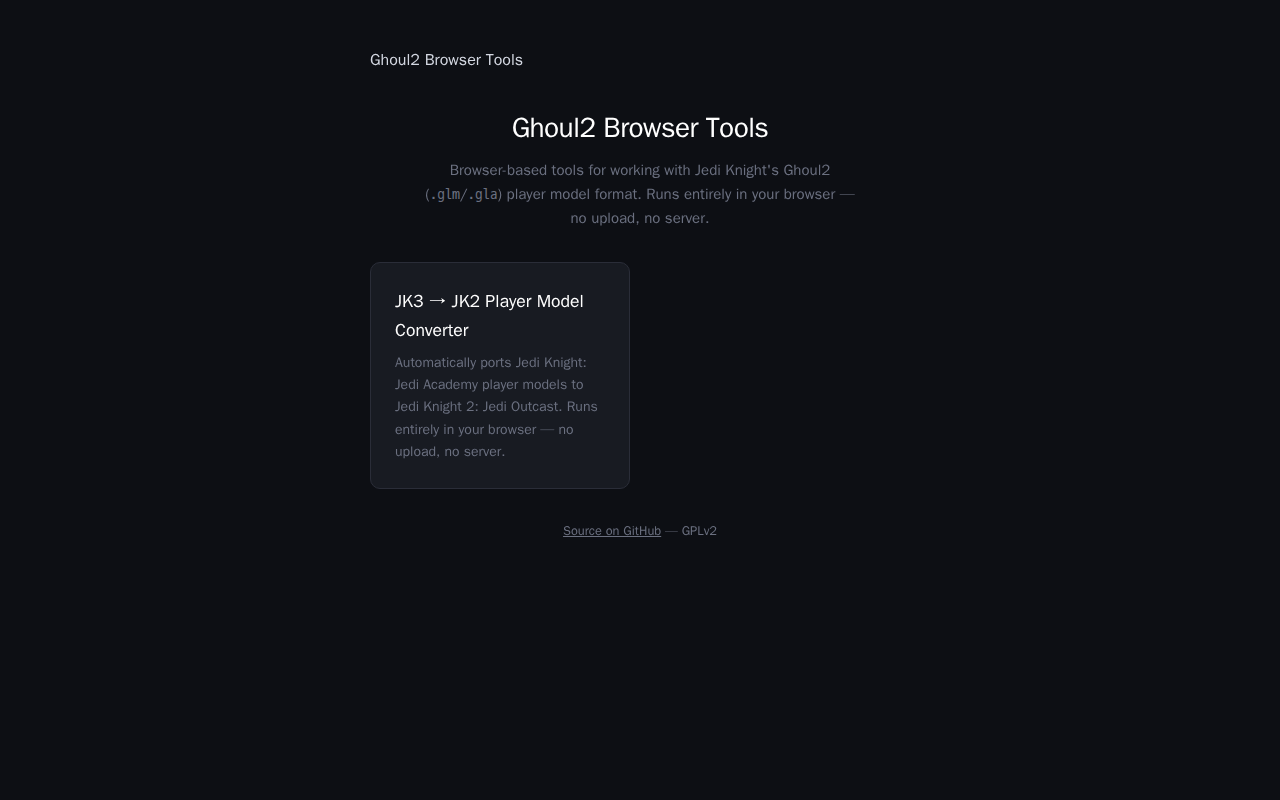
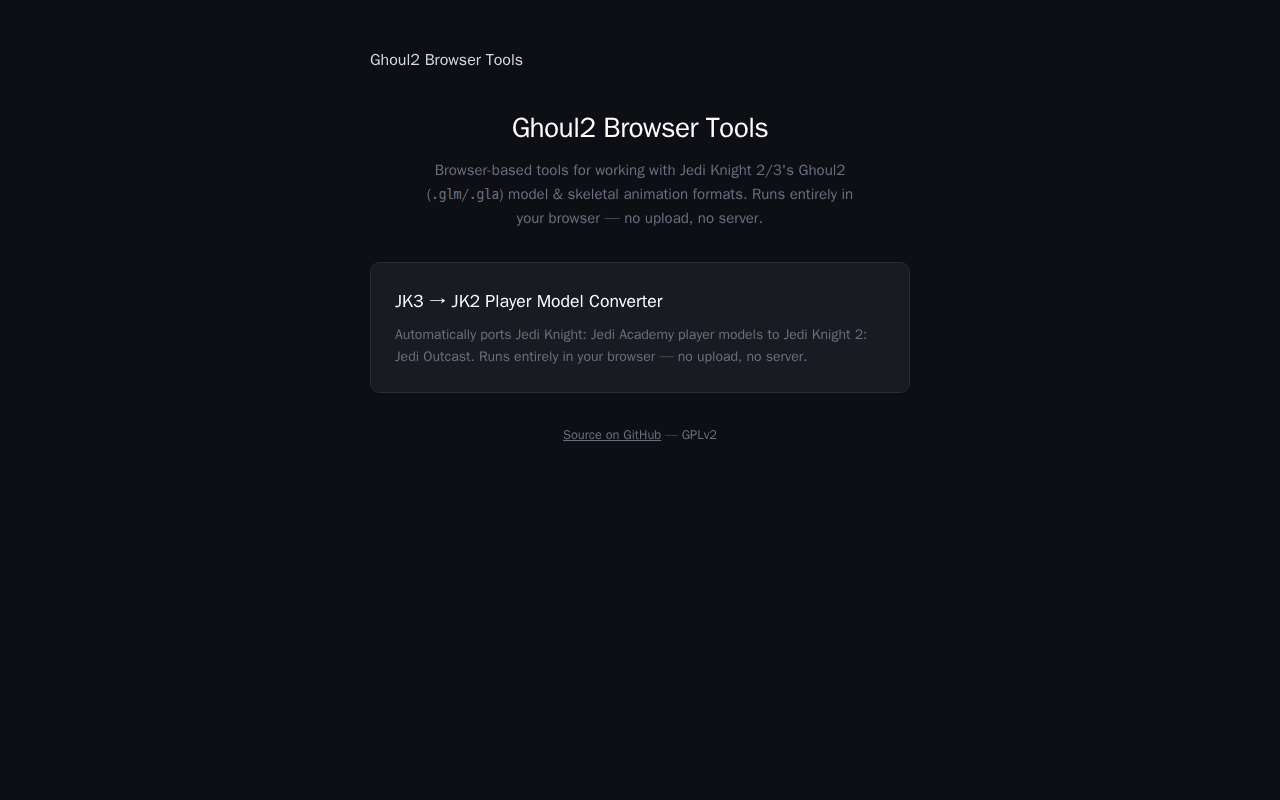
Stack landing-page tool cards one per row and clarify intro copy
Replace the .tool-grid CSS grid with a single-column flex stack — the page is
narrow and won't have enough tools any time soon to justify multiple columns.
Also reword the intro paragraph to specifically name Jedi Knight 2/3 (the
original Jedi Knight predates Ghoul2) and describe the formats as "model &
skeletal animation" rather than "player model".

Regenerated landing-page baselines via ./visual-test-update.sh; converter-page
baselines are unaffected.

Changed region(s): [[0.3125, 0.375, 0.6562, 0.5938], [0.3438, 0.1875, 0.6562, 0.2812], [0.4375, 0.6562, 0.5625, 0.6875]]

diff --git a/site/css/main.css b/site/css/main.css
@@ -64,10 +64,11 @@ main {
   gap: 1.25rem;
 }
 
-/* Landing page tool grid */
+/* Landing page tool list: one card per row — the page is narrow and won't
+   have enough tools any time soon to justify a multi-column grid. */
 .tool-grid {
-  display: grid;
-  grid-template-columns: repeat(auto-fill, minmax(240px, 1fr));
+  display: flex;
+  flex-direction: column;
   gap: 1.25rem;
   width: 100%;
 }